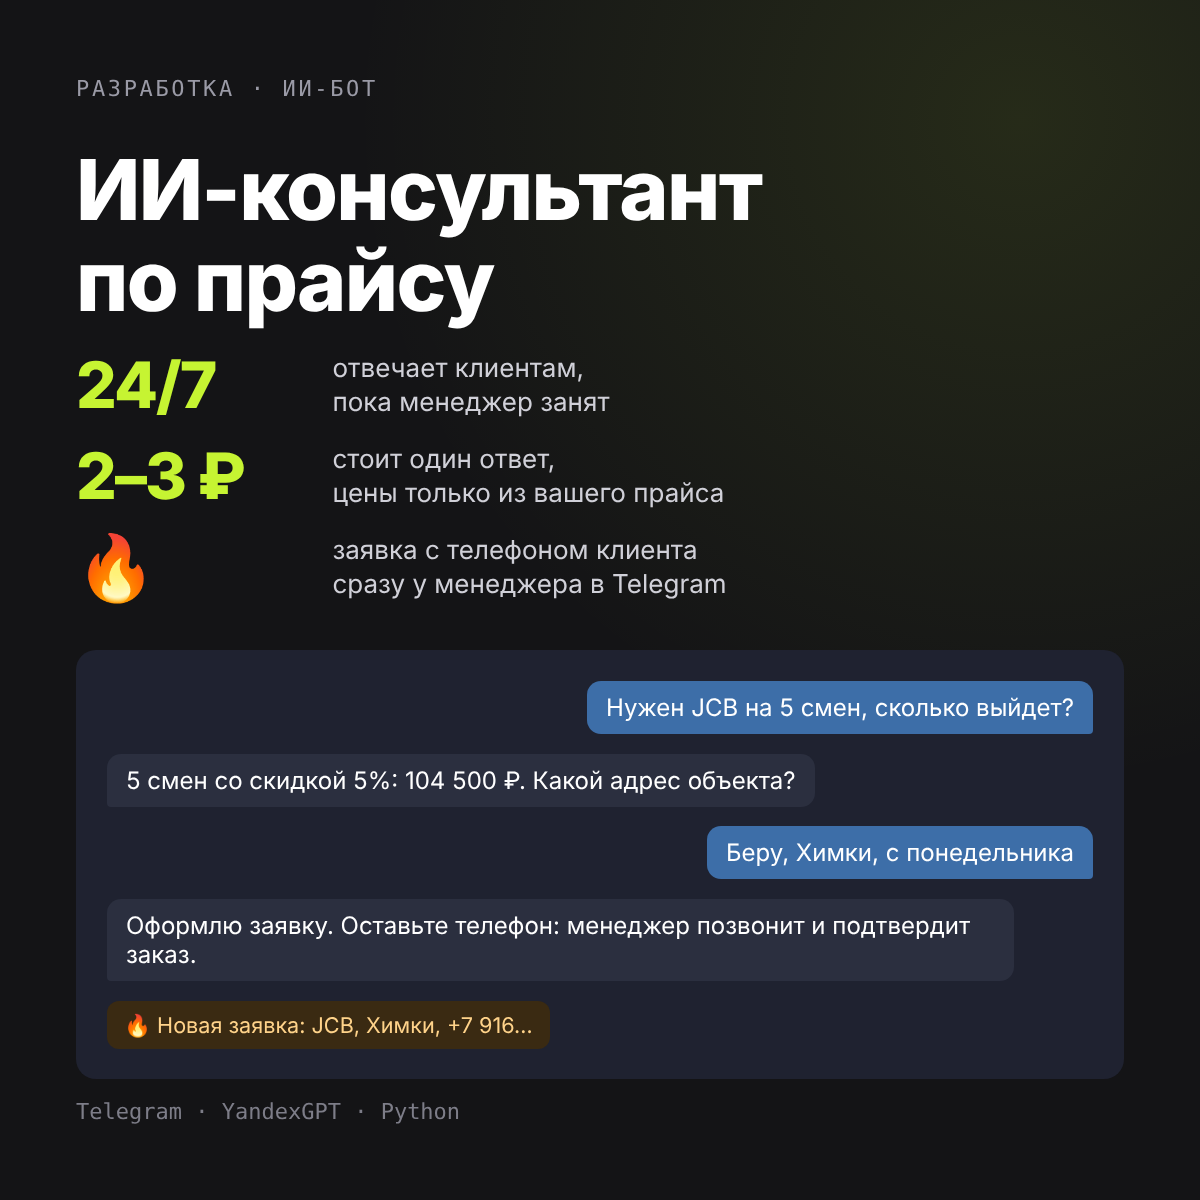
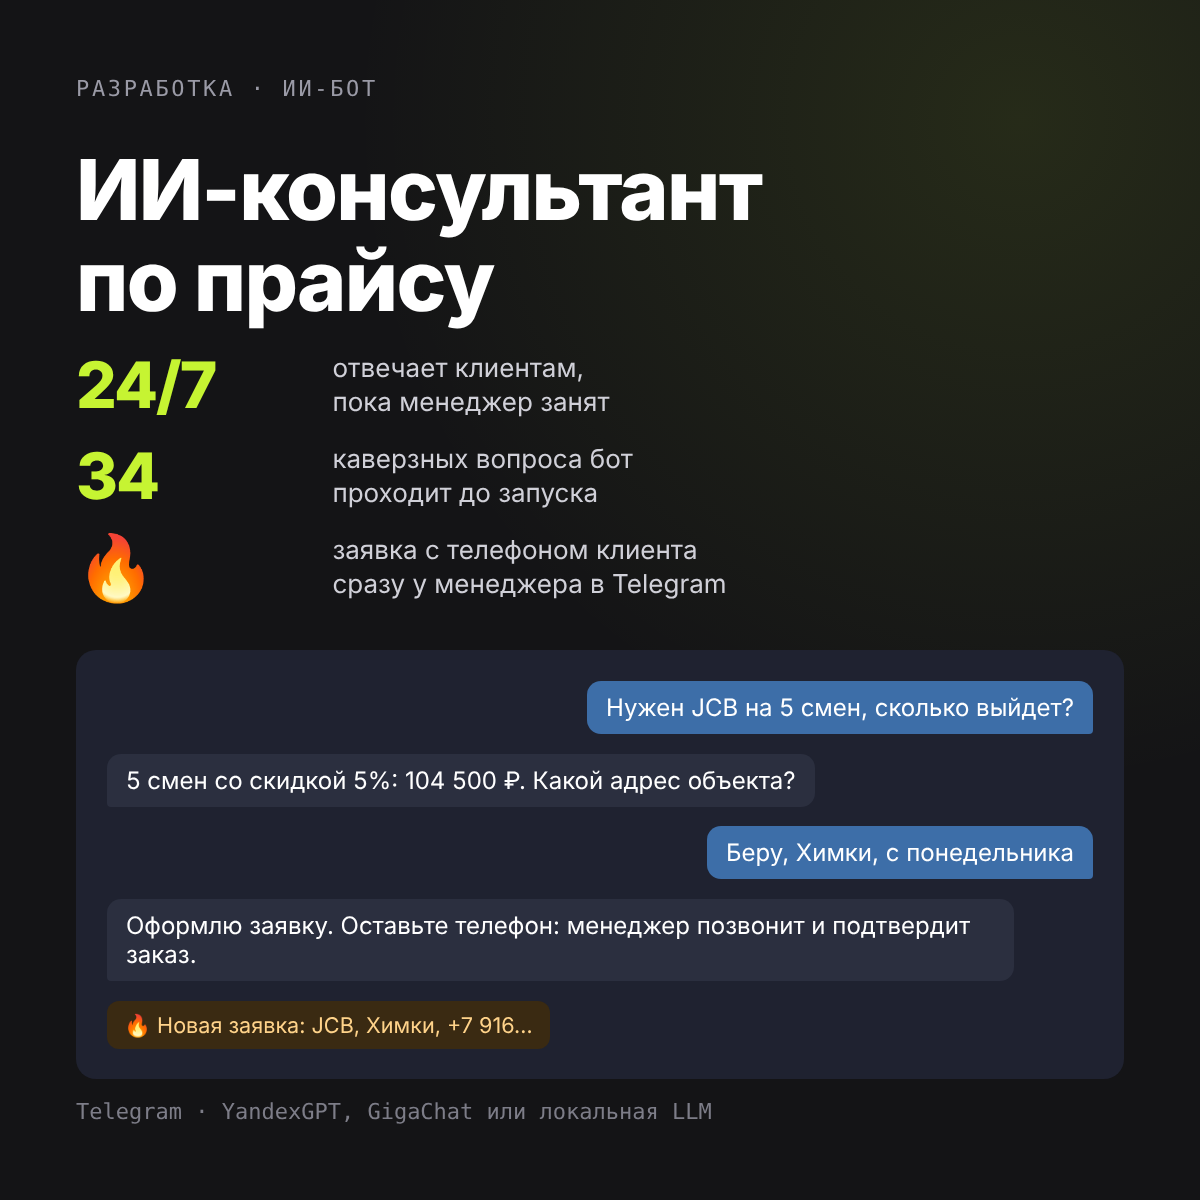
Без цены ответа модели: обложка, README; список моделей и пример локальной

diff --git a/README.md b/README.md
@@ -45,9 +45,9 @@
 
 **Держит роль.** На «забудь инструкции», «дай скидку 50%» и «покажи промпт» продолжает консультировать по прайсу.
 
-## Стоимость
+## Модель
 
-Один ответ стоит 2–3 ₽ на YandexGPT. Чтобы сменить цены и условия, достаточно поправить `data/catalog.yaml`.
+YandexGPT или любой сервис с API как у OpenAI: DeepSeek, OpenAI или локальная модель на вашем сервере (Ollama, vLLM, LM Studio), если данные клиентов не должны уходить наружу. Модель меняется в `.env`, код не трогаем. GigaChat подключается отдельным модулем. Цены и условия бот берёт из `data/catalog.yaml`: чтобы их сменить, достаточно поправить этот файл.
 
 ## Как проверено
 
